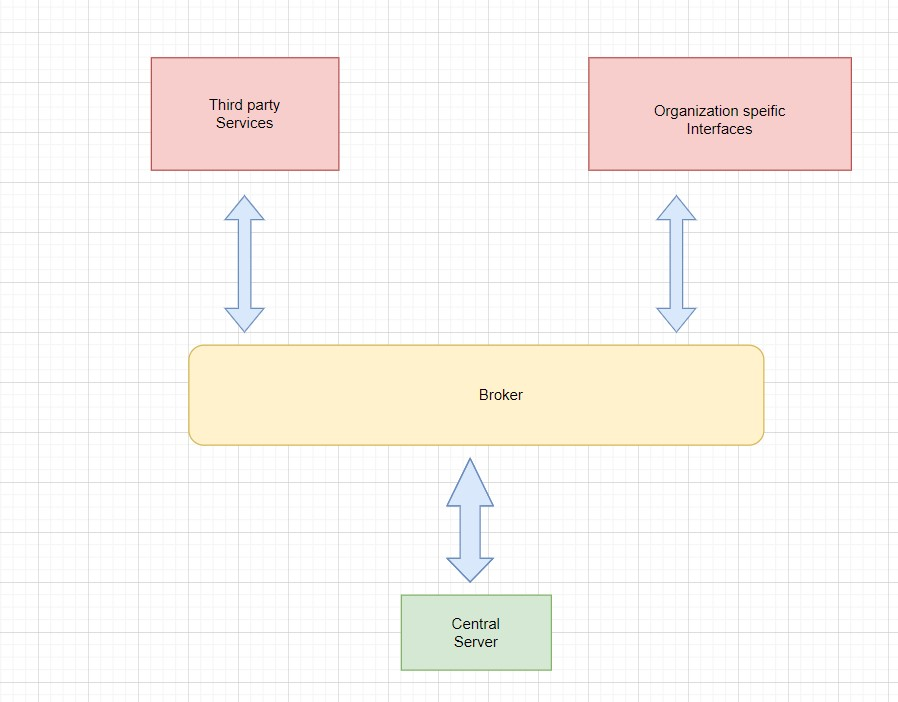
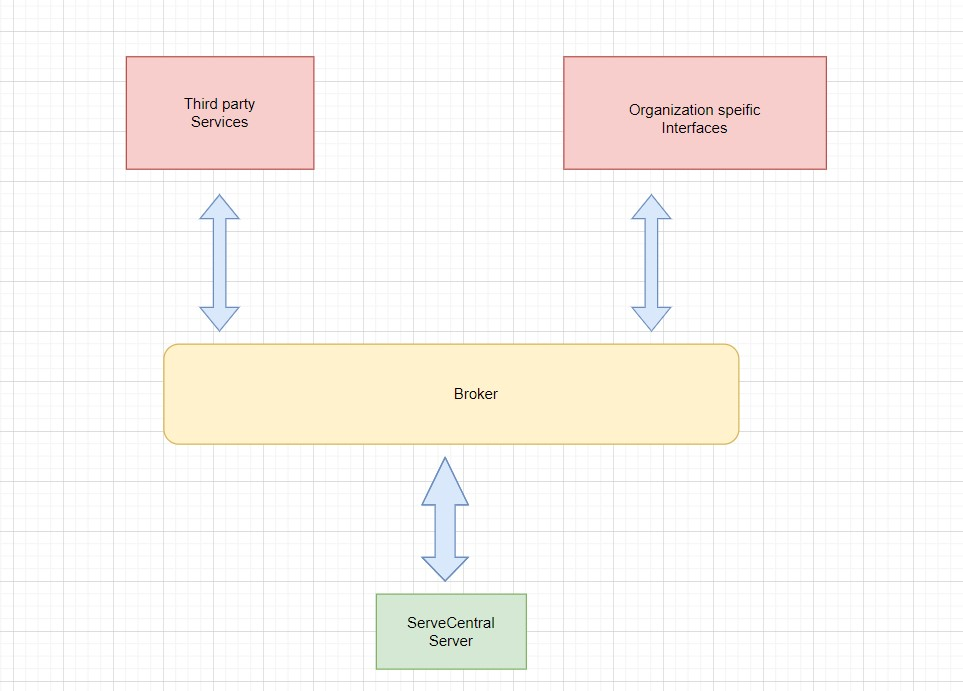
almost done

diff --git a/labreports/LAB2_Jg1579.md b/labreports/LAB2_Jg1579.md
@@ -3,9 +3,9 @@ ___
 **Course:** CIS 411, Spring 2023 
 **Instructor(s):** [Trevor Bunch](https://github.com/trevordbunch)  
 **Name:** Jonathan Gaston
-**GitHub Handle:** Your GitHub Handle  
+**GitHub Handle:** JG1579
 **Repository:** https://github.com/JG1579/cis411_JG1579lab2_arch?organization=JG1579&organization=JG1579
-**Collaborators:** 
+**Collaborators:**   TComerford1972
 ___
 
 # Step 1: Confirm Lab Setup
@@ -14,7 +14,7 @@ ___
 - [ /] If I'm collaborating on this project, I have included their handles on the report and confirm that my report is informed, but not copied from my collaborators.
 
 # Step 2: Analyze the Proposal
-Serve Central is a mobile application that allows users to find events that are looking for volunteer opportunitites. On the app you are able to see what the event is, where the event is located, and what kind of volunteers are needed.
+Serve Central is a mobile application that allows users to find events that are looking for volunteer opportunitites. On the app you are able to see the type of events,location of events, and skills needed for events.
 
 ## Step 2.1 Representative Use Cases  
 
@@ -22,7 +22,7 @@ Serve Central is a mobile application that allows users to find events that are 
 | Use Case #1 |Volunteer|
 |---|---|
 | Title | Signing up to volunteer |
-| Description / Steps |<ol> <li> User will login to their account </li><li> User searches through desired events based on the time, event type, and location </li><li> User selects an event and fills out required information </li><li> User will confirm their registration </li><li> User is given registration confirmation </li><li> User is directed back to original search page  |
+| Description / Steps |<ol> <li> User will login to their account </li><li> User authenticates identity<li> User searches through desired events based on the time, event type, and location </li><li> User selects an event and fills out required information </li><li> User will confirm their registration </li><li> User is given registration confirmation </li><li> User is directed back to original search page  |
 | Primary Actor |Volunteer |
 | Preconditions |<ol> <li> User has created an account </li><li> Serve Central is running and available to use |
 | Postconditions |<ol> <li> User is notified of completed signup </li><li> User is notified with instructions about the event and any changes that may occur  |
@@ -30,7 +30,7 @@ Serve Central is a mobile application that allows users to find events that are 
 | Use Case #2 | |
 |---|---|
 | Title |Creating Volunteering Event |
-| Description / Steps |<ol> <li> Orgainization will login to their account </li><li> Organization selects new event registration </li><li> Organization fills out information about event </li><li> Organizations confirms registering their event </li><li> Organization is given confirmation of registered event </li><li> Organization is directed back to original page |
+| Description / Steps |<ol> <li> Orgainization will login to their account </li><li>Oranization authenticates identity<li> Organization selects new event registration </li><li> Organization fills out information about event </li><li> Organizations confirms registering their event </li><li> Organization is given confirmation of registered event </li><li> Organization is directed back to original page |
 | Primary Actor |Organization |
 | Preconditions |<ol> <li> Organization has created an organization account </li><li> Serve Central is running and available to use  |
 | Postconditions |<ol> <li> Organization is notified of completed event registration </li><li> Organisation confirms event is real <li>Event is displayed so that volnteers can see it| 
@@ -46,19 +46,19 @@ Serve Central is a mobile application that allows users to find events that are 
 
 
 ## Step 2.3 Diagram a Use Case in Architectural Terms
-INSERT IMAGE HERE with a Description.
+![image](/assets/ASSET2.3.jpg)
+The web app html sends display info via a GUI to the user. The user sends input info back to the web app. The input is then sent to the sever. The server then sends a data request to the database. Afterwardsthe database sends data which is then converted by the server and sent to the web app. The web app then displays the info.
 
 # Step 3: Enhancing an Architecture
 
 ## Step 3.1 Architecture Change Proposal
-If Service Central was to expand they should continue to use the MVC architecture. Change to architecture is something that can be costly and difficult to do. The MVC model already in place can be changed in order to meet their new requirements. A drawback of this could be that it is difficult to support multiple similar views that are on the same model. 
+I would try to use the Broker architecture. This archiecture meets the two new requirements because it declutters all the services through a communication broker. Thirdparty services to input and retrieve data from our datastore, and the building of organization-specific interfaces would be brokered so that they don't run the risk of interfering with each other and the main ServeCentral database. This will make service distrubion transparent to the clients and supports dynamic editing of entities. However this architecture runs the risk of adding two many factors to keep control of, and may be complex to handle.
 
 
 ## Step 3.2 Revised Architecture Diagram
 ![3.2](/assets/asset3.2.jpg)
 
 # Step 4: Scaling an Architecture
-INSERT Architectural change proposal here, and how it meets the four new requirements.  Explain both the benefits and draw backs of your proposal.  If the changes are significant, then you need to explain why the changes are necessary versus a nice-to-have enhancement.
-
+The Architectural pattern that I would employ with all these new needs would be microservice. This is now a big enough company with well defined boundries that we should incorporate a number of different tiny programs instead of buidling one big one for every new feature we want to add such as supporting a volunteer and event data store that will exceed 50TB of data. Some downsides that this may cause is the confusion of uses as parts of the app appear later than others, and the communication costs can be significant due to how spread apart the tasks are. But since this is a rapidly developing company, we need this sort of Architecture. These new changes are needed because technology is advancing and our company needs to advance with it, but mainly since we are gaining a ton of new users, we need are going to need more data space, and enhancements that will keep the users happy and coming back.
 # Extra Credit
 If you opt to do extra credit, then include it here.
